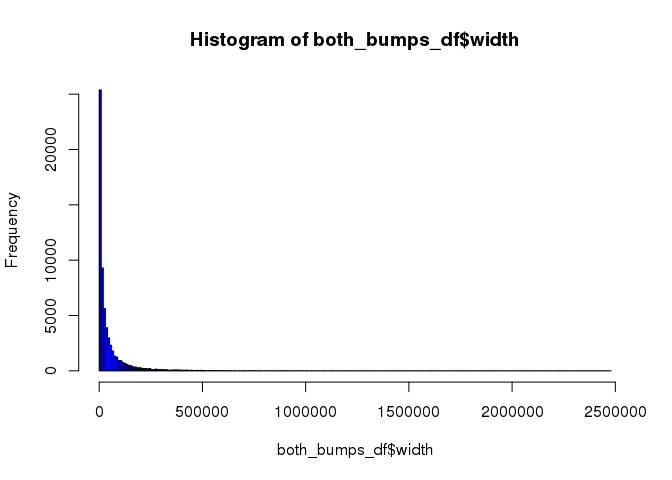
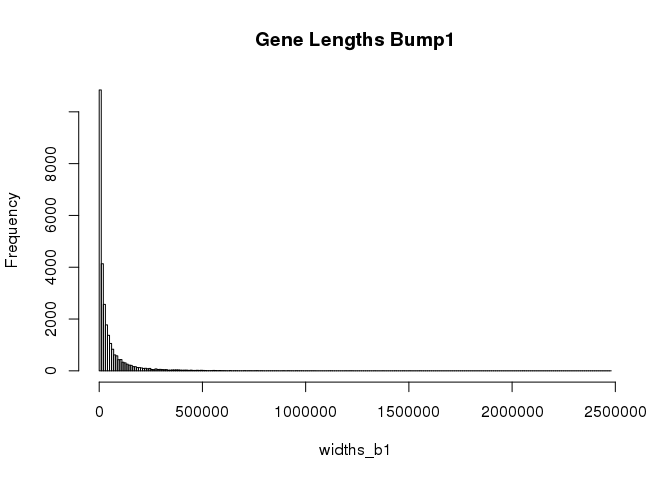
files

diff --git a/final_analysis/05_bump_properties/05_bump_properties.md b/final_analysis/05_bump_properties/05_bump_properties.md
@@ -5,7 +5,7 @@ num_peaks_df <- read_csv('../01_global_peak_properties/results/num_peaks_df.csv'
 ```
 
     ## 
-    ## ── Column specification ────────────────────────────────────────────────────────────────────────────────────
+    ## ── Column specification ──────────────────────────────────────────────────────────────────────────────────────
     ## cols(
     ##   dbp = col_character(),
     ##   num_peaks = col_double(),
@@ -26,7 +26,7 @@ peak_occurrence_df <- read_csv('../01_global_peak_properties/results/peak_occure
 ```
 
     ## 
-    ## ── Column specification ────────────────────────────────────────────────────────────────────────────────────
+    ## ── Column specification ──────────────────────────────────────────────────────────────────────────────────────
     ## cols(
     ##   gene_id = col_character(),
     ##   gene_name = col_character(),
@@ -160,7 +160,13 @@ Some cool histogram of gene length in the two bumps.
 widths_b1 <- bump1_gene_lengths$width
 widths_b2 <- bump2_gene_lengths$width
 
-hist1 <- hist(both_bumps_df$width,breaks = 200, col = both_bumps_df$bump)
+hist1 <- hist(widths_b1,breaks = 200, main='Gene Lengths Bump1')
 ```
 
 ![](05_bump_properties_files/figure-markdown_github/gene%20length%20histograms-1.png)
+
+``` r
+hist2 <- hist(widths_b2,breaks = 200,main='Gene Lengths Bump2')
+```
+
+![](05_bump_properties_files/figure-markdown_github/gene%20length%20more%20histograms-1.png)
